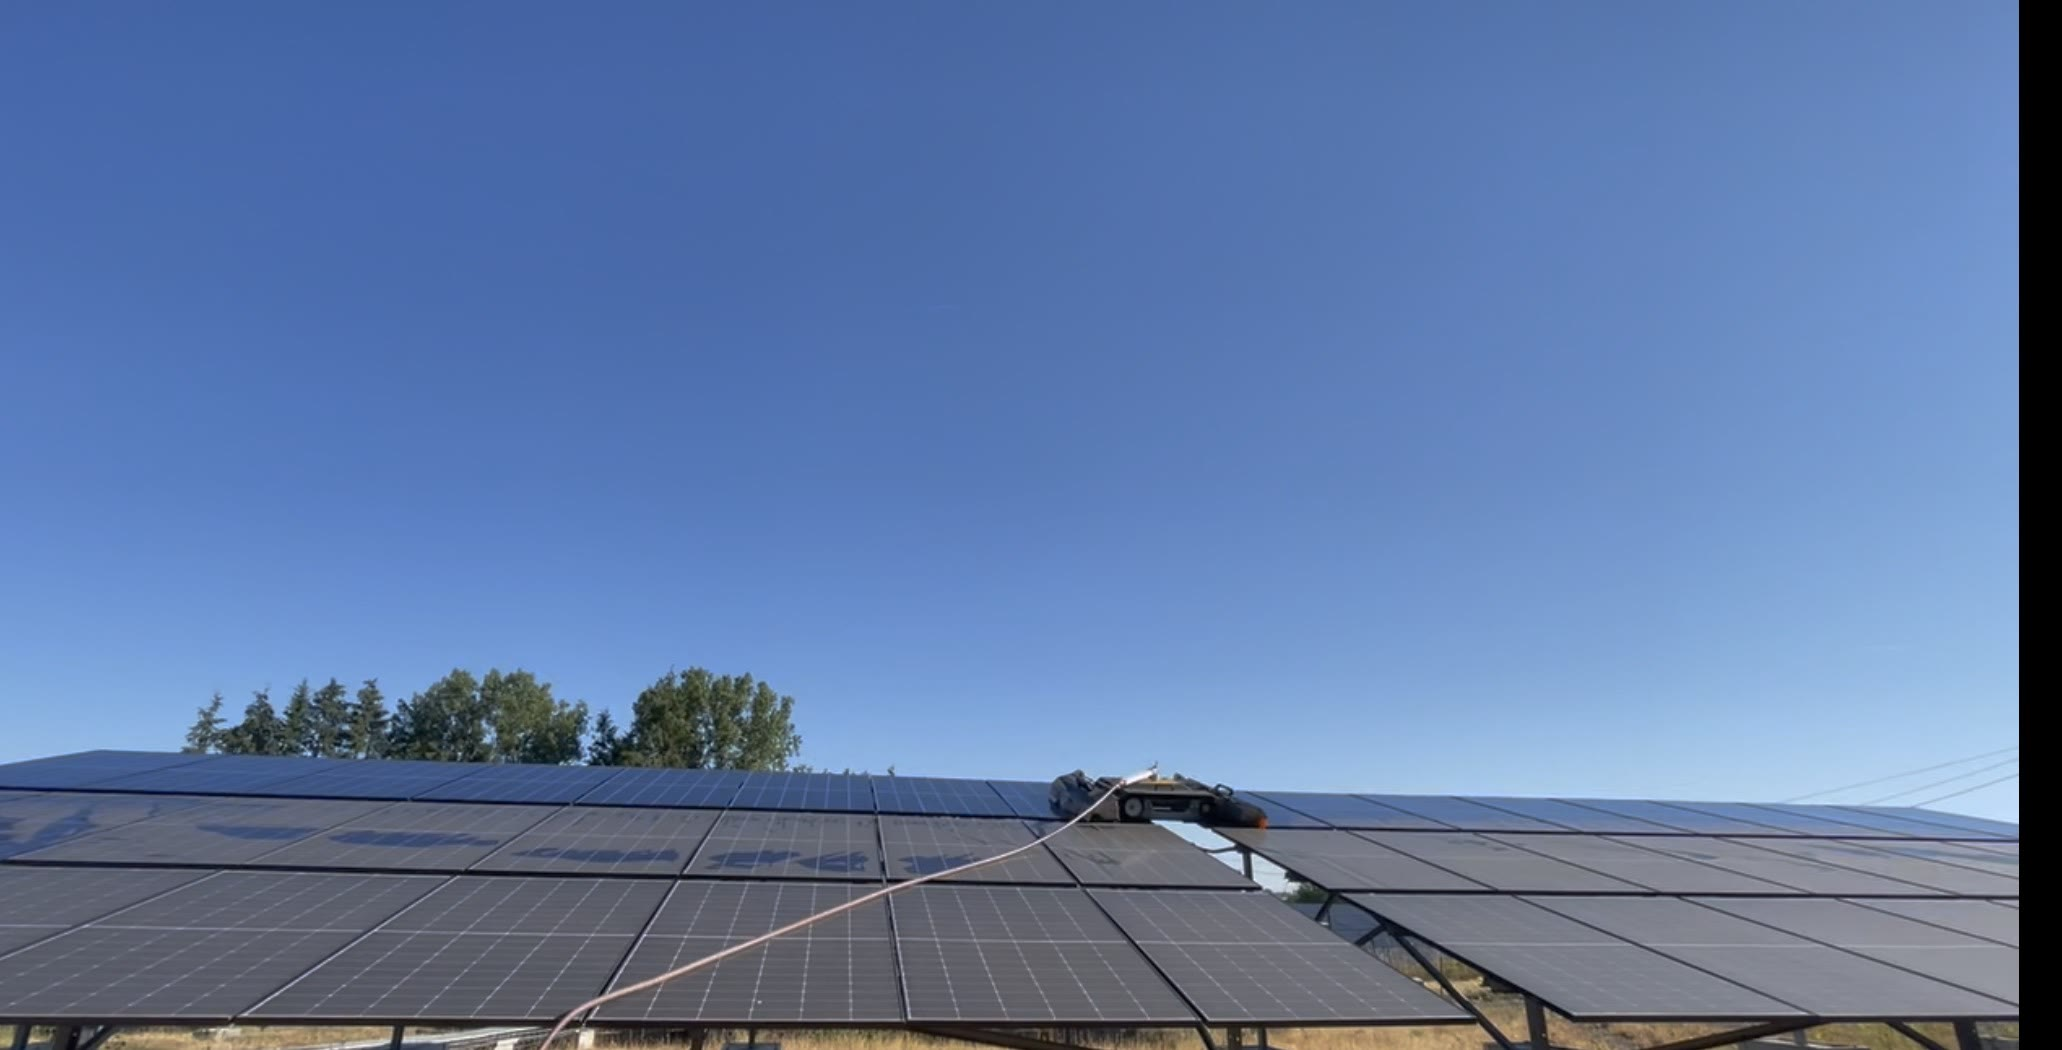
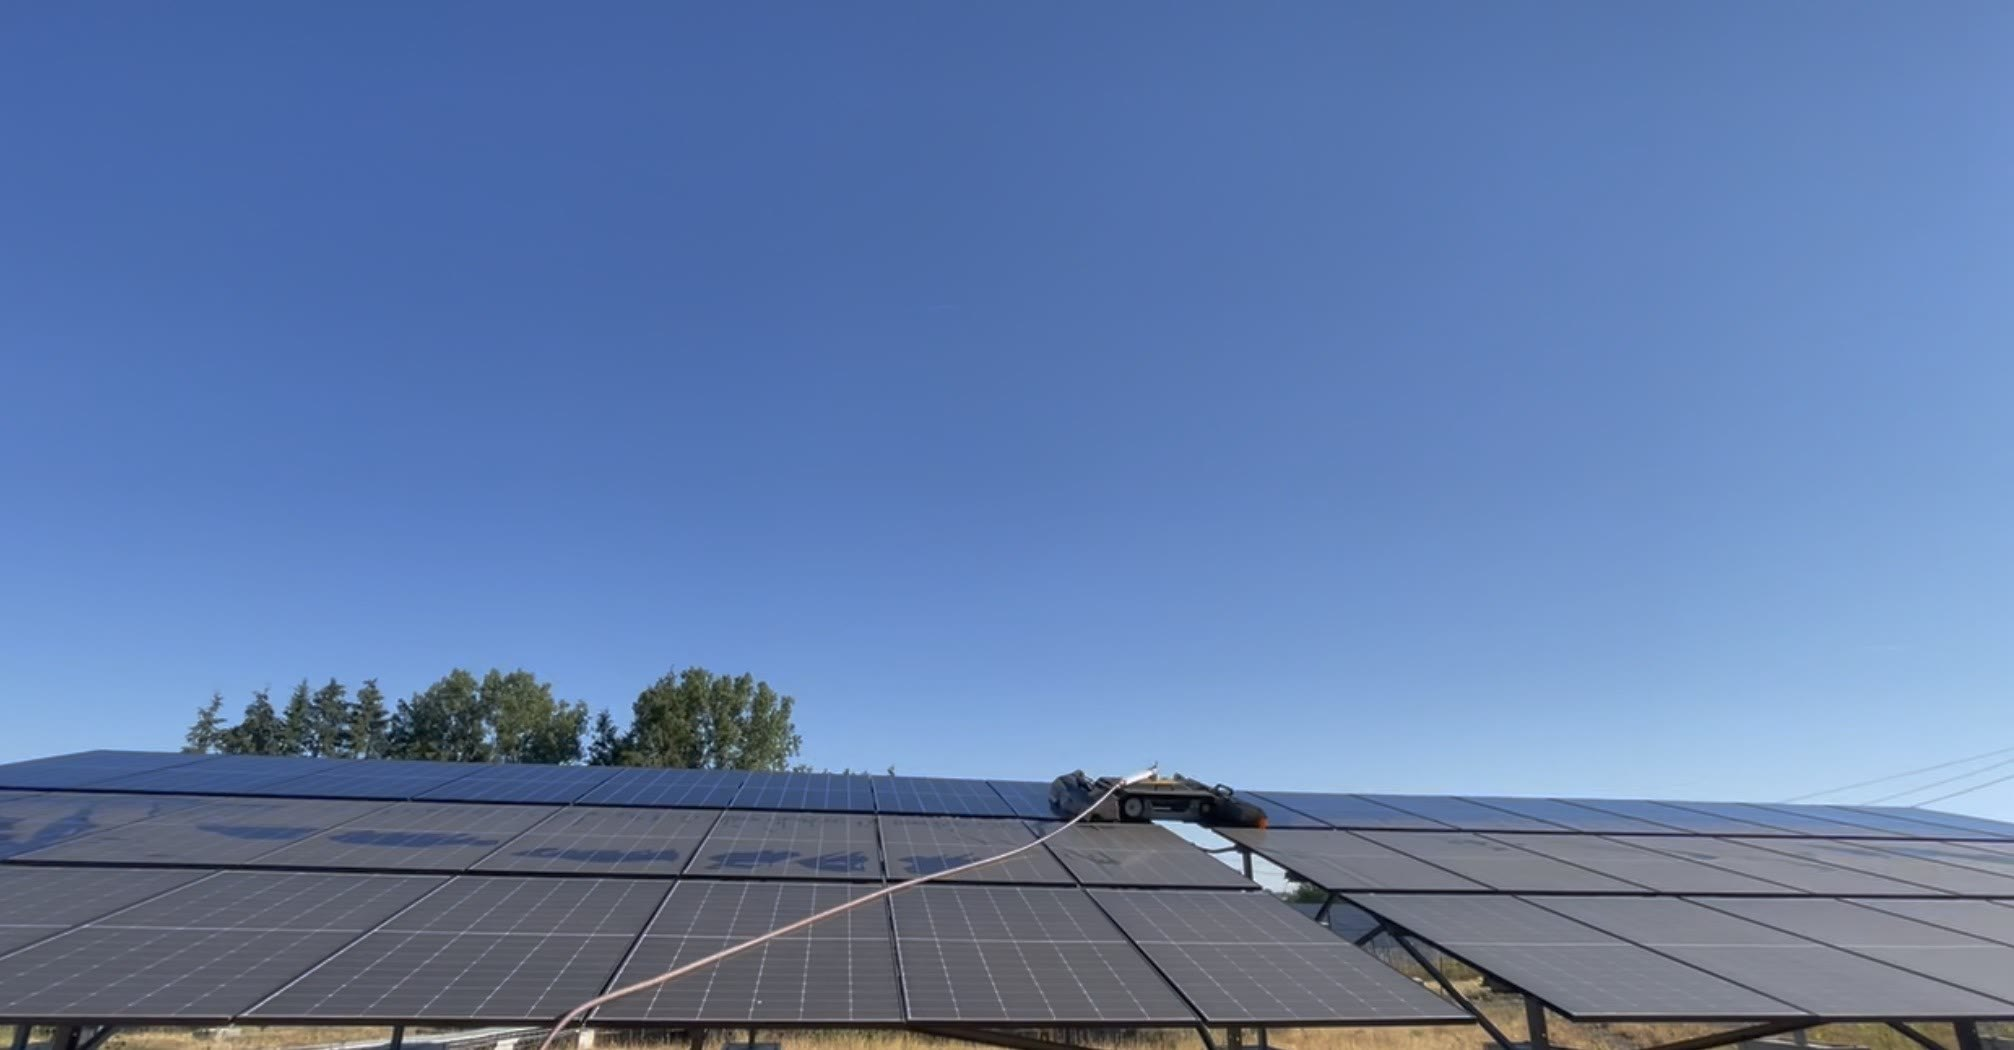
feat(seo): page cachee nettoyage de centrale solaire et photovoltaique
Page dediee aux centrales au sol (ICP 1) : references Le Fossat, Vitry,
Montchanin, FAQ balisee, zones arc mediterraneen. Options facultatives
ajoutees au gabarit LandingPage (badge, points cles, zones, references),
sans effet sur les pages existantes. Lien depuis la page cachee ombrieres,
sitemap et llms.txt mis a jour.

diff --git a/app/nettoyage-centrale-solaire/page.tsx b/app/nettoyage-centrale-solaire/page.tsx
@@ -1,0 +1,203 @@
+import type { Metadata } from "next";
+import LandingPage from "@/components/LandingPage";
+
+/**
+ * Page SEO cachée (absente du menu et du footer), cible « nettoyage centrale
+ * solaire » et « nettoyage centrale photovoltaïque » (ICP 1 : exploitants et
+ * propriétaires de centrales au sol). Maillée uniquement avec les autres pages
+ * cachées.
+ */
+const URL = "https://ellipsys-solutions.com/nettoyage-centrale-solaire";
+const TITRE = "Nettoyage de centrale solaire et photovoltaïque";
+const DESCRIPTION =
+  "Nettoyage de centrales photovoltaïques au sol par robot : 1 200 m²/h, eau filtrée, sans arrêt de production. 83 000 m² déjà nettoyés. Devis 24 h.";
+
+export const metadata: Metadata = {
+  title: TITRE,
+  description: DESCRIPTION,
+  alternates: { canonical: URL },
+  openGraph: {
+    type: "website",
+    locale: "fr_FR",
+    siteName: "Ellipsys Solutions",
+    title: TITRE,
+    description: DESCRIPTION,
+    url: URL,
+    images: [
+      {
+        url: "/images/avant-apres-fossat.jpg",
+        width: 2404,
+        height: 1350,
+        alt: "Avant et après nettoyage de la centrale photovoltaïque au sol du Fossat",
+      },
+    ],
+  },
+};
+
+export default function Page() {
+  return (
+    <LandingPage
+      url={URL}
+      service="solaire"
+      serviceLabel="Nettoyage de centrale photovoltaïque"
+      h1Texte={TITRE}
+      h1={
+        <>
+          Nettoyage de centrale solaire et photovoltaïque,{" "}
+          <span className="text-brand-orange-400">sans arrêt de production</span>
+        </>
+      }
+      accroche="Pollen, poussière agricole, sable saharien, fientes : sur une centrale au sol, le dépôt s'installe rangée après rangée et la pluie ne suffit pas à l'éliminer. Notre robot nettoie vos tables à l'eau filtrée, sans détergent, pendant que la centrale continue d'injecter."
+      heroImage="/images/robot-franchissement.jpg"
+      heroAlt="Robot Ellipsys en train de nettoyer une table de modules d'une centrale photovoltaïque au sol"
+      badgeZone="Arc méditerranéen · Partout en France sur projet"
+      pointsCles={[
+        "Robot jusqu'à 1 200 m² par heure",
+        "Eau filtrée, sans détergent",
+        "Équipe habilitée B0-H0-H0V",
+        "83 000 m² de centrales déjà nettoyés",
+      ]}
+      formTitre="Chiffrage de votre centrale sous 24 h"
+      formSoustitre="Indiquez la surface ou la puissance du site et sa localisation."
+      preuve={{
+        image: "/images/avant-apres-fossat.jpg",
+        alt: "Avant et après nettoyage des modules de la centrale photovoltaïque au sol du Fossat",
+        legende: "Centrale du Fossat (Ariège), 30 000 m² nettoyés en septembre 2026 : les mêmes modules avant et après",
+        badges: ["AVANT", "APRÈS"],
+      }}
+      referencesTitre="Nos dernières centrales nettoyées"
+      references={[
+        {
+          chiffre: "30 000 m²",
+          titre: "Centrale au sol du Fossat",
+          lieu: "Ariège (09)",
+          texte:
+            "Trois hectares de modules couverts d'un voile d'encrassement. Deux pilotes ont traité l'ensemble des rangées en septembre 2026.",
+        },
+        {
+          chiffre: "31 000 m²",
+          titre: "Centrale au sol de Vitry",
+          lieu: "Saône-et-Loire (71)",
+          texte:
+            "Repérage par drone pour cartographier les accès entre rangées, puis nettoyage par robot, sans interruption d'exploitation.",
+        },
+        {
+          chiffre: "22 000 m²",
+          titre: "Centrale au sol de Montchanin",
+          lieu: "Saône-et-Loire (71)",
+          texte:
+            "Enchaînée avec Vitry dans la même tournée pour le même exploitant : plus de 50 000 m² traités en un seul déplacement.",
+        },
+      ]}
+      referencesLien={{ href: "/realisations", label: "Voir les photos avant et après de nos chantiers" }}
+      benefices={[
+        {
+          titre: "La centrale continue de produire",
+          texte:
+            "Le robot avance rangée par rangée pendant que le reste du site injecte. Seul le périmètre de sécurité immédiat est neutralisé, en coordination avec votre exploitant et votre mainteneur.",
+        },
+        {
+          titre: "1 200 m² par heure, une brosse de 1,20 m",
+          texte:
+            "Là où un opérateur à la perche traite 80 à 120 m² par heure, le robot télécommandé en traite jusqu'à 1 200 et franchit des pentes jusqu'à 25°. Sur plusieurs hectares, le chantier se compte en jours, pas en semaines.",
+        },
+        {
+          titre: "Eau filtrée, sans détergent ni haute pression",
+          texte:
+            "Brosses rotatives souples et débit maîtrisé à 7 litres par minute : le verre n'est pas rayé, sa couche antireflet n'est pas agressée, et l'intervention reste compatible avec les garanties des fabricants de modules.",
+        },
+        {
+          titre: "Habilités, préparés, assurés",
+          texte:
+            "Équipe habilitée B0-H0-H0V pour travailler à proximité des installations électriques, plan de prévention établi avec l'exploitant avant chaque chantier, RC professionnelle et RC aéronautique.",
+        },
+        {
+          titre: "Un repérage par drone avant le robot",
+          texte:
+            "Un vol de repérage cartographie les accès, l'espacement des structures et les zones à éviter. Sur demande, la thermographie par drone repère aussi les modules en point chaud pendant le même déplacement.",
+        },
+        {
+          titre: "Plusieurs centrales, une seule tournée",
+          texte:
+            "Regrouper les sites d'un même portefeuille mutualise la mobilisation des équipes et du matériel. C'est ainsi que nous avons enchaîné Vitry et Montchanin pour le même exploitant.",
+        },
+      ]}
+      prix={[
+        {
+          label: "Centrale au sol",
+          prix: "sur devis au m²",
+          note: "Selon la surface, l'accès entre les rangées, l'approvisionnement en eau et le niveau d'encrassement.",
+        },
+        {
+          label: "Contrat annuel",
+          prix: "sur devis",
+          note: "Un à deux passages par an selon l'environnement du site : agricole, littoral ou routier.",
+        },
+        {
+          label: "Portefeuille multi-sites",
+          prix: "sur devis groupé",
+          note: "Plusieurs centrales regroupées dans une même tournée, avec un planning annuel par site.",
+        },
+      ]}
+      prixNote="Pour un exploitant ou un asset manager, la bonne question n'est pas le prix au mètre carré mais ce qu'il rapporte en énergie récupérée. Nous partons de vos données de production pour vérifier que l'intervention se justifie. Si elle ne se justifie pas, nous vous le disons."
+      faq={[
+        {
+          q: "À quelle fréquence faut-il nettoyer une centrale solaire au sol ?",
+          r: "Il n'existe pas de fréquence universelle : tout dépend de l'environnement immédiat. Une centrale entourée de cultures (poussières de semis et de récolte), proche du littoral (sel) ou d'un axe routier s'encrasse plus vite qu'un site isolé. Sur l'arc méditerranéen, les épisodes de sable saharien s'ajoutent au pollen du printemps. Un à deux passages par an couvrent la plupart des sites, et le bon rythme se déduit de l'écart entre la production attendue et la production réelle.",
+        },
+        {
+          q: "Faut-il arrêter la centrale pendant le nettoyage ?",
+          r: "Non. Le robot travaille rangée par rangée et seul le périmètre de sécurité immédiat est neutralisé. Le reste de la centrale continue d'injecter pendant toute la durée de l'intervention.",
+        },
+        {
+          q: "Robot ou nettoyage manuel : quelle différence sur une centrale ?",
+          r: "La cadence d'abord : 80 à 120 m² par heure pour un opérateur à la perche, jusqu'à 1 200 m² par heure pour le robot. La régularité ensuite : la pression de brossage et le débit d'eau restent constants d'un bout à l'autre du site. Enfin, personne ne marche sur les structures ni ne travaille au contact prolongé des modules.",
+        },
+        {
+          q: "Le nettoyage peut-il abîmer les modules ou faire perdre la garantie ?",
+          r: "Pas avec notre méthode : brosses rotatives souples, eau filtrée, aucun détergent et aucune haute pression. Ce sont précisément les pratiques que les fabricants de modules déconseillent (produits chimiques, abrasifs, nettoyeurs haute pression) que nous excluons.",
+        },
+        {
+          q: "Comment mesurer le gain de production après le nettoyage ?",
+          r: "Avec vos propres données de supervision. Comparez la production des jours qui suivent l'intervention à celle des jours qui la précèdent, à ensoleillement comparable, ou rapportez-la au rayonnement mesuré par la station météo du site. C'est cette mesure qui chiffre le gain réel, pas une estimation de catalogue.",
+        },
+        {
+          q: "Le nettoyage reste-t-il rentable avec la multiplication des prix négatifs ?",
+          r: "Il n'agit pas sur le prix de marché, il agit sur l'énergie produite pendant les heures qui restent valorisées. La France a connu 407 heures de prix négatifs au premier semestre 2026, dont 65 % entre 11h et 16h, et le seuil d'arrêt obligatoire descend à 5 MWc au 1er décembre 2026 puis à 1 MWc au 1er mars 2027. Quand les heures rentables se raréfient, chaque kilowattheure perdu par encrassement pendant ces heures pèse plus lourd.",
+        },
+        {
+          q: "Intervenez-vous en dehors de l'Occitanie ?",
+          r: "Oui. Basés à Montpellier, nous intervenons en priorité sur l'arc méditerranéen, de Perpignan à Marseille, et partout en France sur projet. Nos dernières centrales nettoyées se trouvent en Ariège et en Saône-et-Loire.",
+        },
+      ]}
+      zonesTitre="Nous intervenons notamment dans ces départements"
+      communes={[
+        "Hérault",
+        "Gard",
+        "Aude",
+        "Pyrénées-Orientales",
+        "Bouches-du-Rhône",
+        "Vaucluse",
+        "Haute-Garonne",
+        "Ariège",
+        "Tarn",
+        "Aveyron",
+        "Lozère",
+        "et partout en France sur projet",
+      ]}
+      areaServed={[
+        { "@type": "AdministrativeArea", name: "Occitanie" },
+        { "@type": "AdministrativeArea", name: "Provence-Alpes-Côte d'Azur" },
+        { "@type": "Country", name: "France" },
+      ]}
+      pageDetail={{
+        href: "/prestations/nettoyage-solaire",
+        label: "Voir notre offre complète de nettoyage solaire",
+      }}
+      liensConnexes={[
+        { href: "/nettoyage-ombrieres-photovoltaiques", label: "Nettoyage d'ombrières photovoltaïques" },
+        { href: "/nettoyage-panneaux-solaires-montpellier", label: "Nettoyage de panneaux solaires à Montpellier" },
+      ]}
+    />
+  );
+}

diff --git a/components/LandingPage.tsx b/components/LandingPage.tsx
@@ -43,7 +43,24 @@ export type LandingPageProps = {
   /** Liens vers d'autres pages SEO cachées (maillage interne hors navigation) */
   liensConnexes?: { href: string; label: string }[];
   url: string;
+  /** Options pour les pages non locales (par défaut : Montpellier) */
+  badgeZone?: string;
+  pointsCles?: string[];
+  zonesTitre?: string;
+  /** Remplace les communes dans le JSON-LD (régions, pays) */
+  areaServed?: { "@type": string; name: string }[];
+  /** Chantiers chiffrés affichés après la preuve visuelle */
+  references?: { chiffre: string; titre: string; lieu: string; texte: string }[];
+  referencesTitre?: string;
+  referencesLien?: { href: string; label: string };
 };
+
+const POINTS_CLES_DEFAUT = [
+  "Sans échafaudage ni nacelle",
+  "Télépilotes certifiés DGAC / EASA",
+  "Devis gratuit sous 24 h",
+  "Entreprise montpelliéraine",
+];
 
 export default function LandingPage(p: LandingPageProps) {
   const jsonLd = {
@@ -53,7 +70,7 @@ export default function LandingPage(p: LandingPageProps) {
         "@type": "Service",
         name: p.h1Texte,
         serviceType: p.serviceLabel,
-        areaServed: [
+        areaServed: p.areaServed ?? [
           { "@type": "City", name: "Montpellier" },
           ...p.communes.map((c) => ({ "@type": "City", name: c })),
         ],
@@ -99,7 +116,7 @@ export default function LandingPage(p: LandingPageProps) {
           <div className="grid lg:grid-cols-2 gap-10 lg:gap-14 items-start">
             <div className="text-white pt-2">
               <span className="inline-flex items-center gap-2 px-3 py-1.5 rounded-full bg-brand-orange-500/20 border border-brand-orange-400/40 text-brand-orange-300 text-xs font-bold mb-5">
-                <MapPin className="w-3.5 h-3.5" /> Montpellier · Hérault · Occitanie
+                <MapPin className="w-3.5 h-3.5" /> {p.badgeZone ?? "Montpellier · Hérault · Occitanie"}
               </span>
 
               <h1 className="text-3xl sm:text-4xl lg:text-5xl font-black leading-[1.1] mb-5">{p.h1}</h1>
@@ -107,12 +124,7 @@ export default function LandingPage(p: LandingPageProps) {
               <p className="text-lg text-slate-200 leading-relaxed mb-7 max-w-xl">{p.accroche}</p>
 
               <ul className="space-y-2.5 mb-8">
-                {[
-                  "Sans échafaudage ni nacelle",
-                  "Télépilotes certifiés DGAC / EASA",
-                  "Devis gratuit sous 24 h",
-                  "Entreprise montpelliéraine",
-                ].map((t) => (
+                {(p.pointsCles ?? POINTS_CLES_DEFAUT).map((t) => (
                   <li key={t} className="flex items-center gap-3 text-white font-medium">
                     <CheckCircle2 className="w-5 h-5 text-emerald-400 shrink-0" />
                     {t}
@@ -168,6 +180,39 @@ export default function LandingPage(p: LandingPageProps) {
           </div>
         </div>
       </section>
+
+      {/* ─── RÉFÉRENCES CHIFFRÉES (optionnel) ───────────────────────────── */}
+      {p.references && p.references.length > 0 && (
+        <section className="pb-14 bg-white">
+          <div className="container mx-auto px-4 max-w-5xl">
+            {p.referencesTitre && (
+              <h2 className="text-2xl sm:text-3xl font-black text-slate-900 mb-8 text-center">{p.referencesTitre}</h2>
+            )}
+            <div className="grid sm:grid-cols-3 gap-5">
+              {p.references.map((r) => (
+                <div key={r.titre} className="border border-slate-200 rounded-3xl p-6 bg-slate-50">
+                  <p className="text-3xl font-black text-[#0e2f52] mb-1">{r.chiffre}</p>
+                  <h3 className="font-black text-slate-900 leading-snug">{r.titre}</h3>
+                  <p className="flex items-center gap-1.5 text-xs font-bold text-brand-orange-600 mt-1 mb-3">
+                    <MapPin className="w-3.5 h-3.5" /> {r.lieu}
+                  </p>
+                  <p className="text-sm text-slate-600 leading-relaxed">{r.texte}</p>
+                </div>
+              ))}
+            </div>
+            {p.referencesLien && (
+              <p className="text-center mt-7">
+                <Link
+                  href={p.referencesLien.href}
+                  className="text-brand-orange-600 hover:text-brand-orange-700 font-bold text-sm transition-colors"
+                >
+                  {p.referencesLien.label} →
+                </Link>
+              </p>
+            )}
+          </div>
+        </section>
+      )}
 
       {/* ─── BÉNÉFICES ──────────────────────────────────────────────────── */}
       <section className="py-16 bg-slate-50 border-y border-slate-200">
@@ -268,7 +313,7 @@ export default function LandingPage(p: LandingPageProps) {
 
           <div className="pt-8 border-t border-white/10">
             <p className="text-xs uppercase tracking-widest text-slate-400 font-bold mb-4">
-              Nous intervenons notamment à
+              {p.zonesTitre ?? "Nous intervenons notamment à"}
             </p>
             <p className="text-slate-300 text-sm leading-relaxed max-w-3xl mx-auto">
               {p.communes.join(" · ")}

diff --git a/app/sitemap.ts b/app/sitemap.ts
@@ -27,6 +27,7 @@ export default function sitemap(): MetadataRoute.Sitemap {
     { path: "/tarifs", priority: 0.95, changeFrequency: "monthly" },
     { path: "/nettoyage-panneaux-photovoltaiques", priority: 0.95, changeFrequency: "weekly" },
     { path: "/nettoyage-ombrieres-photovoltaiques", priority: 0.95, changeFrequency: "monthly" },
+    { path: "/nettoyage-centrale-solaire", priority: 0.95, changeFrequency: "monthly" },
 
     // Prestations
     { path: "/prestations", priority: 0.9, changeFrequency: "monthly" },

diff --git a/app/nettoyage-ombrieres-photovoltaiques/page.tsx b/app/nettoyage-ombrieres-photovoltaiques/page.tsx
@@ -128,6 +128,9 @@ export default function Page() {
         href: "/prestations/nettoyage-solaire",
         label: "Voir notre offre complète pour les parcs photovoltaïques",
       }}
+      liensConnexes={[
+        { href: "/nettoyage-centrale-solaire", label: "Nettoyage de centrale solaire et photovoltaïque" },
+      ]}
     />
   );
 }
